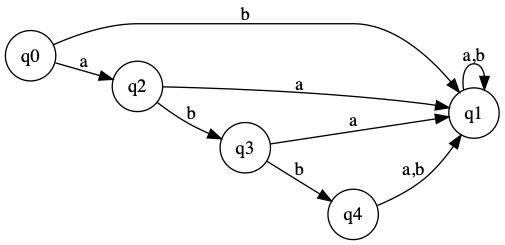
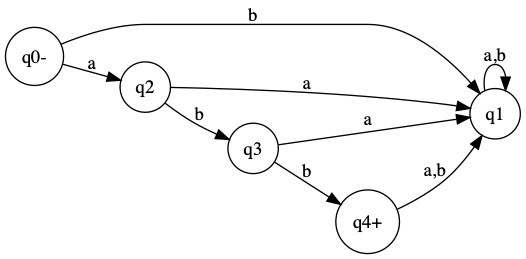
added +- to dot graph to show start/final states

diff --git a/automata/finite_automata/dfa.py b/automata/finite_automata/dfa.py
@@ -60,9 +60,18 @@ class DFA:
         )
 
     def generate_dot(self, file_name="out.png"):
-        """ generate a dotfile corresponding to the FA """
+        """generate a dotfile corresponding to the FA"""
         # header
         output = "digraph {rankdir=LR;node[shape=circle];\n"
+
+        names = {self.start_state: f"{self.start_state}-"}
+        for state in self.states:
+            suffix = ''
+            if state is self.start_state:
+                suffix = "-"
+            if state in self.final_states:
+                suffix = "\u00b1" if state is self.start_state else "+"
+            names[state] = f"{state}{suffix}"
 
         # combine edge labels going to same state
         edge_labels = defaultdict(str)
@@ -71,7 +80,9 @@ class DFA:
                 edge_labels[(state, to_state)] += symbol
 
         for (state, to_state), label in edge_labels.items():
-            output += f"\"{state}\" -> \"{to_state}\" [label=\"{','.join(label)}\"];\n"
+            output += '"{}" -> "{}" [label="{}"];\n'.format(
+                names[state], names[to_state], ",".join(label)
+            )
 
         output += "}"
         dot_file = pydot.graph_from_dot_data(output)[0]
